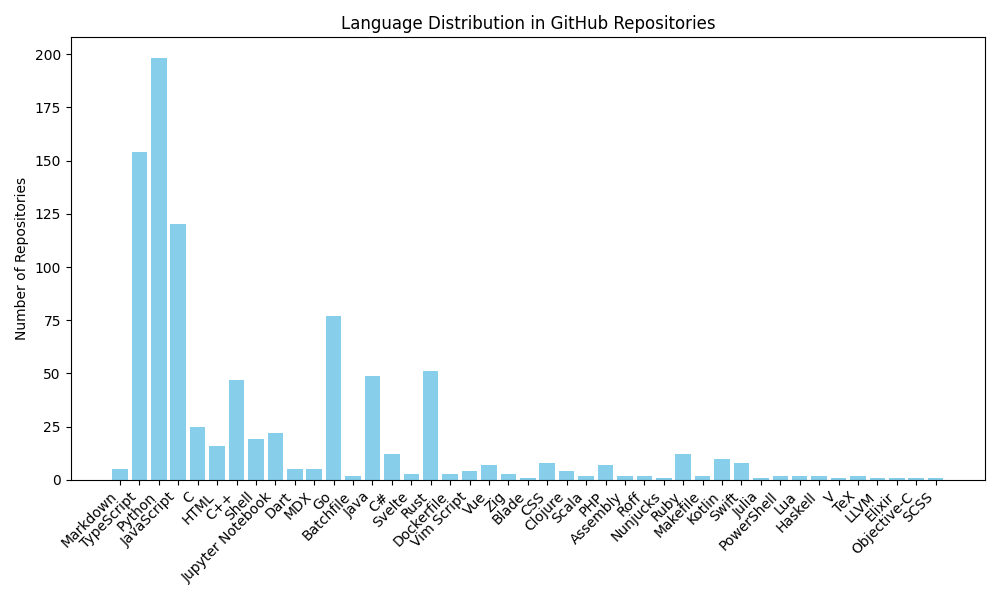
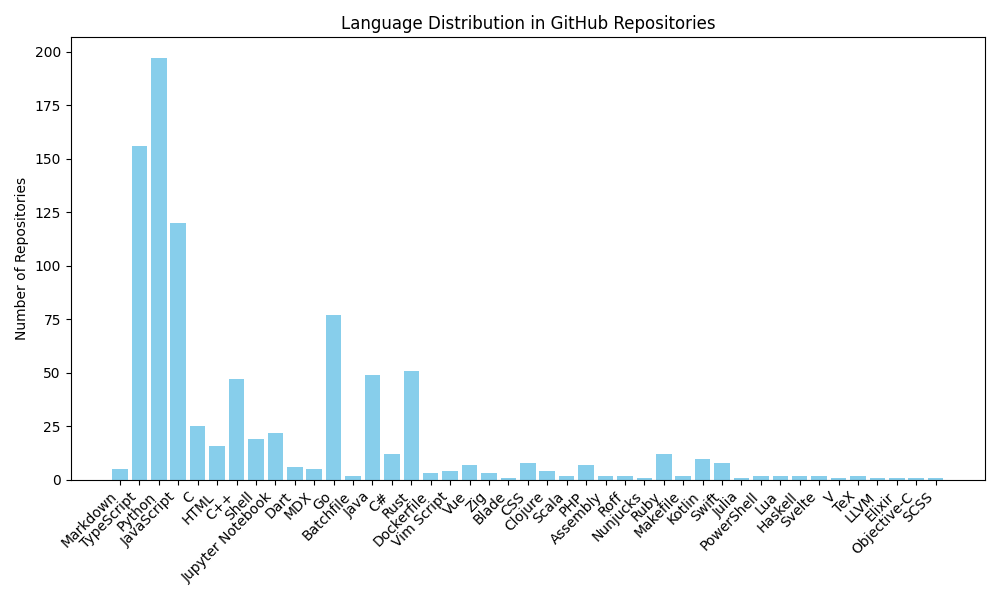
Update language distribution chart

diff --git a/README.md b/README.md
@@ -2,10 +2,10 @@
 
 ![Language Distribution Chart](language_distribution_bar_chart.png)
 
-Total repositories processed: 900
+Total repositories processed: 901
 
 Language distribution:
-Markdown: 5, TypeScript: 154, Python: 198, JavaScript: 120, C: 25, HTML: 16, C++: 47, Shell: 19, Jupyter Notebook: 22, Dart: 5, MDX: 5, Go: 77, Batchfile: 2, Java: 49, C#: 12, Svelte: 3, Rust: 51, Dockerfile: 3, Vim Script: 4, Vue: 7, Zig: 3, Blade: 1, CSS: 8, Clojure: 4, Scala: 2, PHP: 7, Assembly: 2, Roff: 2, Nunjucks: 1, Ruby: 12, Makefile: 2, Kotlin: 10, Swift: 8, Julia: 1, PowerShell: 2, Lua: 2, Haskell: 2, V: 1, TeX: 2, LLVM: 1, Elixir: 1, Objective-C: 1, SCSS: 1
+Markdown: 5, TypeScript: 156, Python: 197, JavaScript: 120, C: 25, HTML: 16, C++: 47, Shell: 19, Jupyter Notebook: 22, Dart: 6, MDX: 5, Go: 77, Batchfile: 2, Java: 49, C#: 12, Rust: 51, Dockerfile: 3, Vim Script: 4, Vue: 7, Zig: 3, Blade: 1, CSS: 8, Clojure: 4, Scala: 2, PHP: 7, Assembly: 2, Roff: 2, Nunjucks: 1, Ruby: 12, Makefile: 2, Kotlin: 10, Swift: 8, Julia: 1, PowerShell: 2, Lua: 2, Haskell: 2, Svelte: 2, V: 1, TeX: 2, LLVM: 1, Elixir: 1, Objective-C: 1, SCSS: 1
 
 
-_Last updated: 2026-01-04 01:26:28_
+_Last updated: 2026-01-11 01:26:10_
